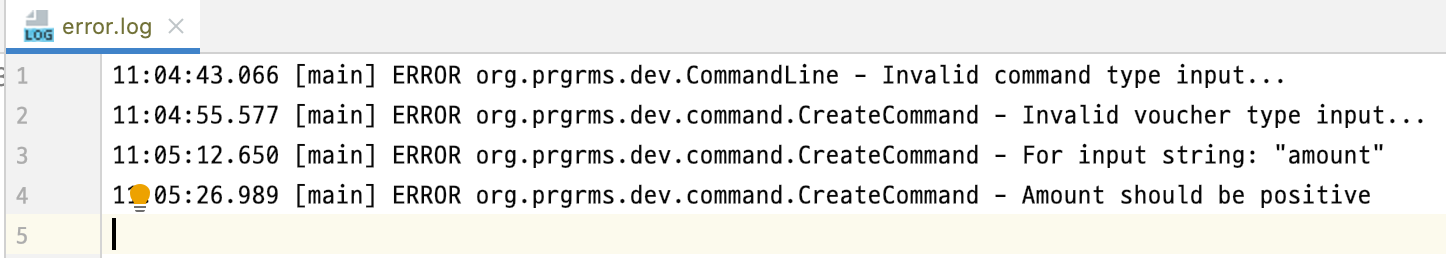
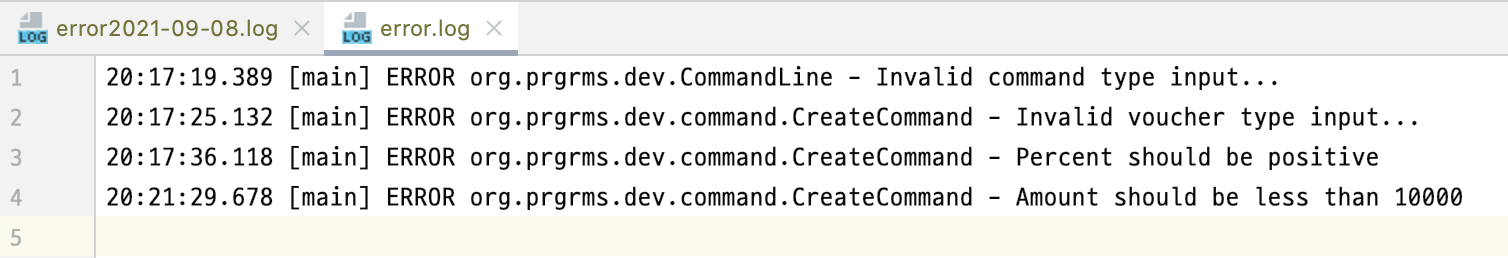
refactor : 인자 값 Validation 메서드 분리

diff --git a/dev-spring-w3/src/main/java/org/prgrms/dev/voucher/domain/FixedAmountVoucher.java b/dev-spring-w3/src/main/java/org/prgrms/dev/voucher/domain/FixedAmountVoucher.java
@@ -1,27 +1,45 @@
 package org.prgrms.dev.voucher.domain;
 
+import org.prgrms.dev.voucher.exception.InvalidArgumentException;
+
 import java.util.UUID;
 
 public class FixedAmountVoucher implements Voucher {
-    private static final int MAX_VOUCHER_AMOUNT = 10000;
+    private static final int MAX_AMOUNT = 10000;
     private static final int ZERO_AMOUNT = 0;
 
     private final UUID voucherId;
     private final long amount;
 
     public FixedAmountVoucher(UUID voucherId, long amount) {
-        if (amount < ZERO_AMOUNT) {
-            throw new IllegalArgumentException("Amount should be positive");
-        }
-        if (amount == ZERO_AMOUNT) {
-            throw new IllegalArgumentException("Amount should not be zero");
-        }
-        if (amount > MAX_VOUCHER_AMOUNT) {
-            throw new IllegalArgumentException(String.format("Amount should be less than %d ", MAX_VOUCHER_AMOUNT));
-        }
+        validate(amount);
 
         this.voucherId = voucherId;
         this.amount = amount;
+    }
+
+    private void validate(long amount) {
+        validateAmountIsZero(amount);
+        validateAmountIsNegative(amount);
+        validateAmountOutOfMax(amount);
+    }
+
+    private void validateAmountIsZero(long amount) {
+        if (amount == ZERO_AMOUNT) {
+            throw new InvalidArgumentException("Amount should not be zero");
+        }
+    }
+
+    private void validateAmountIsNegative(long amount) {
+        if (amount < ZERO_AMOUNT) {
+            throw new InvalidArgumentException("Amount should be positive");
+        }
+    }
+
+    private void validateAmountOutOfMax(long amount) {
+        if (amount > MAX_AMOUNT) {
+            throw new InvalidArgumentException(String.format("Amount should be less than %d ", MAX_AMOUNT));
+        }
     }
 
     @Override

diff --git a/dev-spring-w3/src/main/java/org/prgrms/dev/voucher/domain/PercentDiscountVoucher.java b/dev-spring-w3/src/main/java/org/prgrms/dev/voucher/domain/PercentDiscountVoucher.java
@@ -1,5 +1,7 @@
 package org.prgrms.dev.voucher.domain;
 
+import org.prgrms.dev.voucher.exception.InvalidArgumentException;
+
 import java.util.UUID;
 
 public class PercentDiscountVoucher implements Voucher {
@@ -11,18 +13,33 @@ public class PercentDiscountVoucher implements Voucher {
     private final long percent;
 
     public PercentDiscountVoucher(UUID voucherId, long percent) {
-        if (percent < ZERO_PERCENT) {
-            throw new IllegalArgumentException("Percent should be positive");
-        }
-        if (percent == ZERO_PERCENT) {
-            throw new IllegalArgumentException("Percent should not be zero");
-        }
-        if (percent > MAX_PERCENT) {
-            throw new IllegalArgumentException(String.format("Percent should be less than %d ", MAX_PERCENT));
-        }
+        validate(percent);
 
         this.voucherId = voucherId;
         this.percent = percent;
+    }
+    private void validate(long percent) {
+        validatePercentIsZero(percent);
+        validatePercentIsNegative(percent);
+        validatePercentOutOfMax(percent);
+    }
+
+    private void validatePercentIsZero(long percent) {
+        if (percent == ZERO_PERCENT) {
+            throw new InvalidArgumentException("Percent should not be zero");
+        }
+    }
+
+    private void validatePercentIsNegative(long percent) {
+        if (percent < ZERO_PERCENT) {
+            throw new InvalidArgumentException("Percent should be positive");
+        }
+    }
+
+    private void validatePercentOutOfMax(long percent) {
+        if (percent > MAX_PERCENT) {
+            throw new InvalidArgumentException(String.format("Percent should be less than %d ", MAX_PERCENT));
+        }
     }
 
     @Override

diff --git a/dev-spring-w3/src/main/java/org/prgrms/dev/command/CreateCommand.java b/dev-spring-w3/src/main/java/org/prgrms/dev/command/CreateCommand.java
@@ -2,6 +2,7 @@ package org.prgrms.dev.command;
 
 import org.prgrms.dev.io.Input;
 import org.prgrms.dev.io.Output;
+import org.prgrms.dev.voucher.exception.InvalidArgumentException;
 import org.prgrms.dev.voucher.service.VoucherService;
 import org.slf4j.Logger;
 import org.slf4j.LoggerFactory;
@@ -25,6 +26,9 @@ public class CreateCommand implements Command {
         } catch (IllegalArgumentException e) {
             logger.error(e.getMessage());
             output.printInvalidVoucherType();
+        } catch (InvalidArgumentException e) {
+            logger.error(e.getMessage());
+            output.printInvalidNumber();
         }
         return true;
     }

diff --git a/dev-spring-w3/src/main/java/org/prgrms/dev/voucher/exception/InvalidArgumentException.java b/dev-spring-w3/src/main/java/org/prgrms/dev/voucher/exception/InvalidArgumentException.java
@@ -1,0 +1,7 @@
+package org.prgrms.dev.voucher.exception;
+
+public class InvalidArgumentException extends RuntimeException {
+    public InvalidArgumentException(String msg) {
+        super(msg);
+    }
+}

diff --git a/README.md b/README.md
@@ -66,7 +66,10 @@ Type list to list all vouchers.
 
 
 - 적절한 로그를 기록하고 로그백 설정을 해서 에러는 파일로 기록하기
-  - ![errorlog](assets/images/errorlog.png)
+
+  ![errorlog](assets/images/errorlog0908.png)
+
+  ![errorlog](assets/images/errorlog.png)
 
 ---
 
